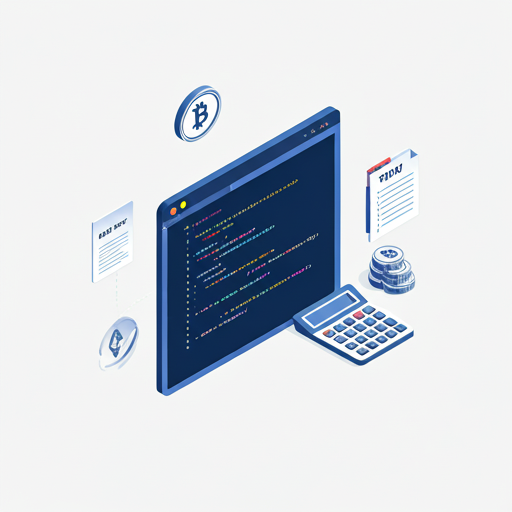
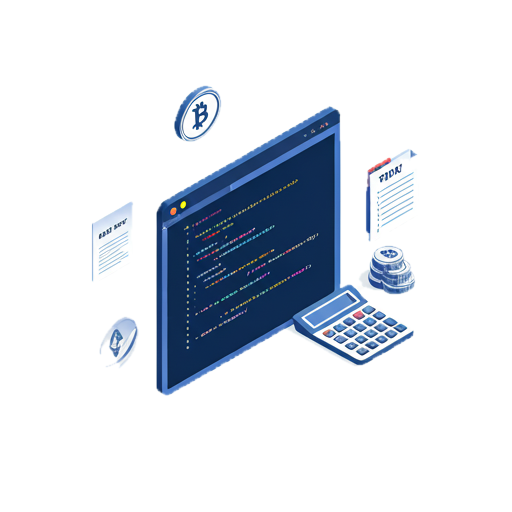
fix(docs-site): 浅色主题灰字和主色对比度达标,首页插图改为透明底
灰色辅助文字 #94a3b8 对 #f8fafc 只有 2.5:1,改为 #64748b;主色 #6366f1 在白底上 4.47:1,改为 #4f46e5。首页插图原为浅灰不透明底,换成透明底。

diff --git a/apps/docs-site/src/styles/custom.css b/apps/docs-site/src/styles/custom.css
@@ -26,7 +26,7 @@
 
 [data-theme='light'] {
   --sl-color-accent-low:  #eef2ff;
-  --sl-color-accent:      #6366f1;
+  --sl-color-accent:      #4f46e5;
   --sl-color-accent-high: #4338ca;
 
   --sl-color-bg:          #f8fafc;
@@ -35,7 +35,7 @@
   --sl-color-hairline:    #e2e8f0;
   --sl-color-gray-1:      #0f172a;
   --sl-color-gray-2:      #475569;
-  --sl-color-gray-3:      #94a3b8;
+  --sl-color-gray-3:      #64748b;
   --sl-color-gray-4:      #cbd5e1;
   --sl-color-gray-5:      #e2e8f0;
   --sl-color-gray-6:      #f8fafc;
